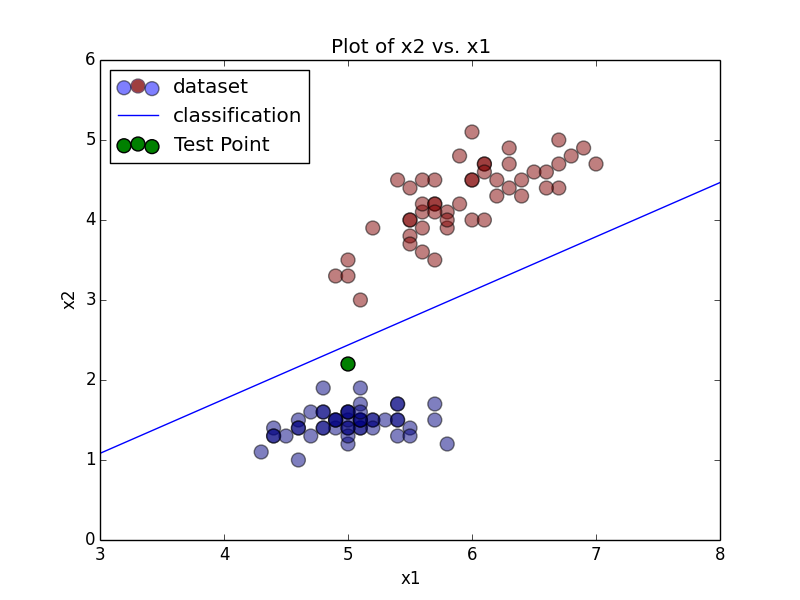
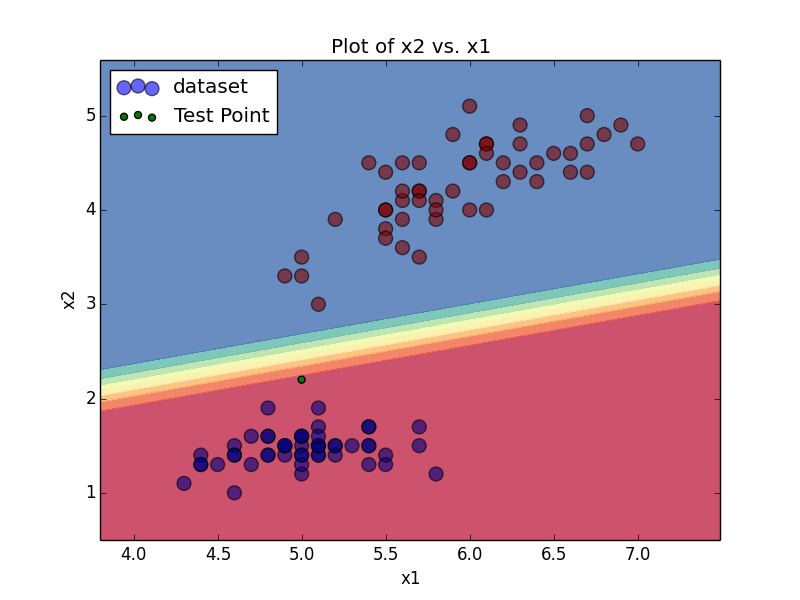
Republish the correct code and graph
Sorry for my negligence.

diff --git a/ANN/classification.py b/ANN/classification.py
@@ -5,8 +5,8 @@ d=[]
 x1=[]
 x2=[]
 data_num=0
-iter_time=30
-plot_data_history=np.zeros((4,iter_time)) #0:error_rate 1:w0(i) 2:w1(i) 3:w2(i)
+iter_time=100
+plot_data_history=np.zeros((4,iter_time)) # 0:error_rate 1:w0(i) 2:w1(i) 3:w2(i)
 
 def read_data():
 	cnt=0
@@ -40,26 +40,13 @@ def logistic_regression(w0,w1,w2,learning_rate):
 			w1+=learning_rate*(d[j]-y)*x1[j]*p_hypo
 			w2+=learning_rate*(d[j]-y)*x2[j]*p_hypo
 			Y.append(y)
-		print error_rate(Y,i)
+		error_rate(Y,i)
 		plot_data_history[1][i]=w0
 		plot_data_history[2][i]=w1
 		plot_data_history[3][i]=w2
 	return w0,w1,w2
 
-def draw_graph():
-	# Plot x2 v.s. x1
-	plot1=plt.scatter(x1, x2, s=100, c=d ,alpha=0.5)
-	x_axis=np.linspace(0, 8, 100)
-	y_axis=-(w0+x_axis*w1)/w2
-	plot2,=plt.plot(x_axis, y_axis)
-	plt.xlim(3.0, 8.0)
-	plt.ylim(0.0, 6.0)
-	# plot3=plt.scatter(5, 2.2 ,s=100 , c='g')
-	#plt.legend([plot1, plot2 ,plot3], ('dataset', 'classification' ,'Test Point'), loc=2 ,numpoints=1)
-	plt.title('Plot of x2 vs. x1')
-	plt.xlabel('x1')
-	plt.ylabel('x2')
-	plt.show()
+def draw_history_graph():
 	# Plot of error_rate vs. iteration times
 	tmpx=np.linspace(0, iter_time, iter_time)
 	plt.scatter(tmpx, plot_data_history[0] ,s=40)
@@ -89,9 +76,34 @@ def draw_graph():
 	plt.ylabel('w2')
 	plt.show()
 
+def hidden_layer(Z,W,w0):
+	output_value=0.0
+	fixed_value=10e-5  #(if needed)fix the accuracy of floating number 
+	input_layer=np.dot(Z, W) + w0
+	output_value=np.tanh(input_layer)
+	return output_value
+
 if __name__ == '__main__':
 	data_num=read_data()
-	w0,w1,w2=logistic_regression(5,-4,5,0.2)
-	draw_graph()
-	print "#Decision Boundary: {0} + x1*{1} + x2*{2} = 0".format(w0,w1,w2)
+	w0,w1,w2=logistic_regression(-4,-2,4,0.05)
+
+	# draw main graph(using NN to predict the value)
+	x1_min,x1_max=np.array(x1).min()-.5, np.array(x1).max()+.5
+	x2_min,x2_max=np.array(x2).min()-.5, np.array(x2).max()+.5
+	x_axis, y_axis = np.meshgrid(np.arange(x1_min, x1_max, 0.01), np.arange(x2_min, x2_max, 0.01))
+	Z = hidden_layer(np.c_[x_axis.ravel(), y_axis.ravel()],np.array([w1,w2]),w0)
+	Z = Z.reshape(x_axis.shape)
+	plt.contourf(x_axis, y_axis, Z, alpha=0.8,cmap=plt.cm.Spectral)
+	plot1=plt.scatter(x1, x2, s=100, c=d ,alpha=0.6)
+	plot2=plt.scatter(5, 2.2 ,s=100 , c='green' ,marker='.')
+	plt.legend([plot1, plot2], ('dataset','Test Point'), loc=2 ,numpoints=1)
+	plt.xlim(x_axis.min(), x_axis.max())
+	plt.ylim(y_axis.min(), y_axis.max())
+	plt.title('Plot of x2 vs. x1')
+	plt.xlabel('x1')
+	plt.ylabel('x2')
+	plt.show()
+
+	draw_history_graph()
+	print "#Decision Boundary: w0,w1,w2 =({0},{1},{2})".format(w0,w1,w2)
 
